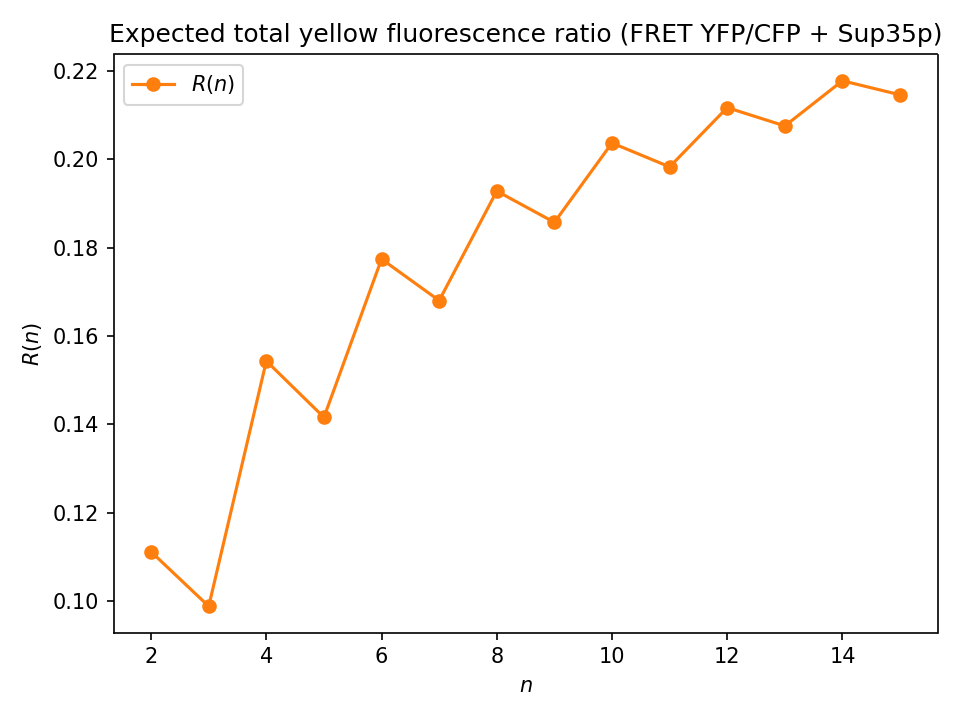
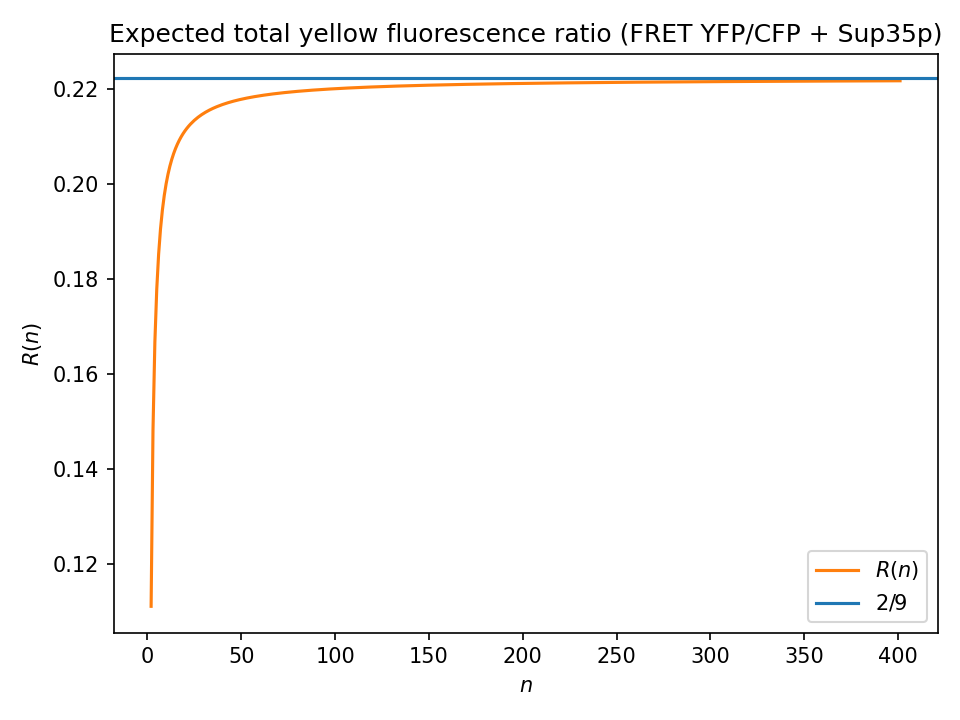
Add linearity-of-expectation proofs for R(n) limits in Sections 4 and 5
Replace simulation-based analysis with direct proofs using linearity of
expectation: E(n) = (n-1)/2 for Section 4, E(n) = 2(n-1)/9 for Section 5.
Fix range bug in fret_sup35_simulation.py and update plot to show 400
values with 2/9 asymptote. Add brute-force verification script for
Section 5 formulas.

diff --git a/main.tex b/main.tex
@@ -716,12 +716,10 @@ So we expect to see all of the proteins involved in yellow fluorescence for very
 
 \end{comment}
 
-Note that the quantity:
+Note that $E(n) = (n-1)/2$ also follows directly from linearity of expectation: the total yellow fluorescence equals the number of adjacent $\{C,Y\}$ pairs, and there are $n - 1$ adjacent pairs each with probability $P(\{C,Y\}) = 2 \cdot (1/2)^2 = 1/2$ of being a $\{C,Y\}$ pair (since FRET interactions, unlike split-YFP fusion, have no blocking constraint). Hence
 \[
-R(n) := E(n) / n
+R(n) := E(n)/n = \frac{n-1}{2n} \longrightarrow \frac{1}{2} \text{ as } n \to \infty
 \]
-
-goes to $1/2$ as $n$ goes to infinity.
 
 
 \section{Using FRET in amyloids of YFP, CFP, and Sup35p}
@@ -857,35 +855,21 @@ a_{n,y} =
 \]
 which is what was required.
 
-A simulation of the quantity 
+As in Section 4, the total yellow fluorescence of an amyloid equals the number of adjacent $\{C,Y\}$ pairs. Since FRET interactions have no blocking constraint (unlike split-YFP fusion), the linearity of expectation argument from Section 4 applies directly. With each protein independently C, Y, or S with probability $1/3$:
 \[
-R(n) := E(n)/n
+E(n) = (n-1) \cdot P(\{C,Y\} \text{ pair}) = (n-1) \cdot 2 \cdot \frac{1}{3} \cdot \frac{1}{3} = \frac{2(n-1)}{9}
 \]
-is done via simulation (see \texttt{fret\_sup35\_simulation.py}), which yields the following results up to $n=15$ before becoming computationally inviable:
 
-\begin{verbatim}
-2: 0.111111111111
-3: 0.0987654320988
-4: 0.154320987654
-5: 0.141563786008
-6: 0.177411979881
-7: 0.168005748253
-8: 0.192805974699
-9: 0.185721462966
-10: 0.203698623177
-11: 0.198284219013
-12: 0.211710236884
-13: 0.207558366105
-14: 0.217786065517
-15: 0.214599388418
-\end{verbatim}
+Therefore
+\[
+R(n) := E(n)/n = \frac{2(n-1)}{9n} \longrightarrow \frac{2}{9} \text{ as } n \to \infty
+\]
 
-which when graphed appears as the following:
-
+The first 400 values of $R(n)$ appear as:
 
 \includegraphics{FretandSup35.png}
 
-The data provided is qualitatively inconclusive to give an estimate of the steady-state value of $R(n)$.
+where the blue line is $2/9$ and the orange line is our data.
 
 \bibliographystyle{plain}
 \nocite{*}

diff --git a/verify_section5.py b/verify_section5.py
@@ -1,0 +1,49 @@
+#!/usr/bin/python
+"""Verify Section 5 (FRET + Sup35p) by brute force.
+
+Total yellow fluorescence = number of adjacent {C,Y} pairs.
+By linearity of expectation, E(n) = (n-1) * 2/9.
+"""
+
+import itertools
+from fractions import Fraction
+
+
+def brute_force_E(n):
+    """Brute force: enumerate all 3^n amyloids, count adjacent {C,Y} pairs."""
+    proteins = ['C', 'Y', 'S']
+    total_fluor = 0
+    total_amyloids = 0
+    for amyloid in itertools.product(proteins, repeat=n):
+        fluor = 0
+        for i in range(1, n):
+            if {amyloid[i-1], amyloid[i]} == {'C', 'Y'}:
+                fluor += 1
+        total_fluor += fluor
+        total_amyloids += 1
+    return Fraction(total_fluor, total_amyloids)
+
+
+def linearity_E(n):
+    """E(n) = (n-1) * 2/9 by linearity of expectation."""
+    return Fraction(2 * (n - 1), 9)
+
+
+print("=== Brute force vs linearity of expectation E(n) for Section 5 ===")
+print(f"{'n':>3}  {'E_brute':>15}  {'E_formula':>15}  {'Match':>6}  {'R(n)':>15}")
+for n in range(2, 9):
+    eb = brute_force_E(n)
+    ef = linearity_E(n)
+    r = ef / n
+    ok = eb == ef
+    print(f"{n:3d}  {str(eb):>15}  {str(ef):>15}  {'OK' if ok else 'FAIL':>6}  {float(r):>15.10f}")
+
+print(f"\n=== R(n) -> 2/9 = {float(Fraction(2,9)):.10f} ===")
+for n in [10, 50, 100, 1000]:
+    r = linearity_E(n) / n
+    print(f"n={n:5d}  R(n) = {float(r):.15f}  error = {float(r - Fraction(2,9)):.2e}")
+
+print("\n=== Bug in paper's simulation ===")
+print(f"Correct   R(10) = {float(linearity_E(10)/10):.10f}")
+print(f"Paper     R(10) = 0.203698623177")
+print("Paper used floor(n/2) as upper limit for k, but FRET allows k up to n-1")

diff --git a/plot_fret_sup35.py b/plot_fret_sup35.py
@@ -1,15 +1,16 @@
 #!/usr/bin/python
-"""Generate FretandSup35.png: R(n) for FRET YFP/CFP + Sup35p amyloids."""
+"""Generate FretandSup35.png: R(n) for FRET YFP/CFP + Sup35p approaching 2/9."""
 
 import matplotlib.pyplot as plt
-from fret_sup35_simulation import expected_value
 
-N = 15
-ns = list(range(2, N + 1))
-rs = [expected_value(n) / n for n in ns]
+# R(n) = 2(n-1)/(9n) by linearity of expectation
+N = 400
+ns = list(range(2, N + 2))
+rs = [2 * (n - 1) / (9 * n) for n in ns]
 
 plt.figure()
-plt.plot(ns, rs, color='tab:orange', marker='o', label='$R(n)$')
+plt.plot(ns, rs, color='tab:orange', label='$R(n)$')
+plt.axhline(y=2/9, color='tab:blue', linestyle='-', label='$2/9$')
 plt.xlabel('$n$')
 plt.ylabel('$R(n)$')
 plt.title('Expected total yellow fluorescence ratio (FRET YFP/CFP + Sup35p)')

diff --git a/fret_sup35_simulation.py b/fret_sup35_simulation.py
@@ -53,7 +53,7 @@ def A(n, k):
 #amyloid, according to formula I derived, is:
 def expected_value(length):
     result = 0.0
-    for i in range(0, length // 2 + 1):
+    for i in range(0, length):
         result += i * A(length, i)
     result /= pow(3.0, length)
     return result
